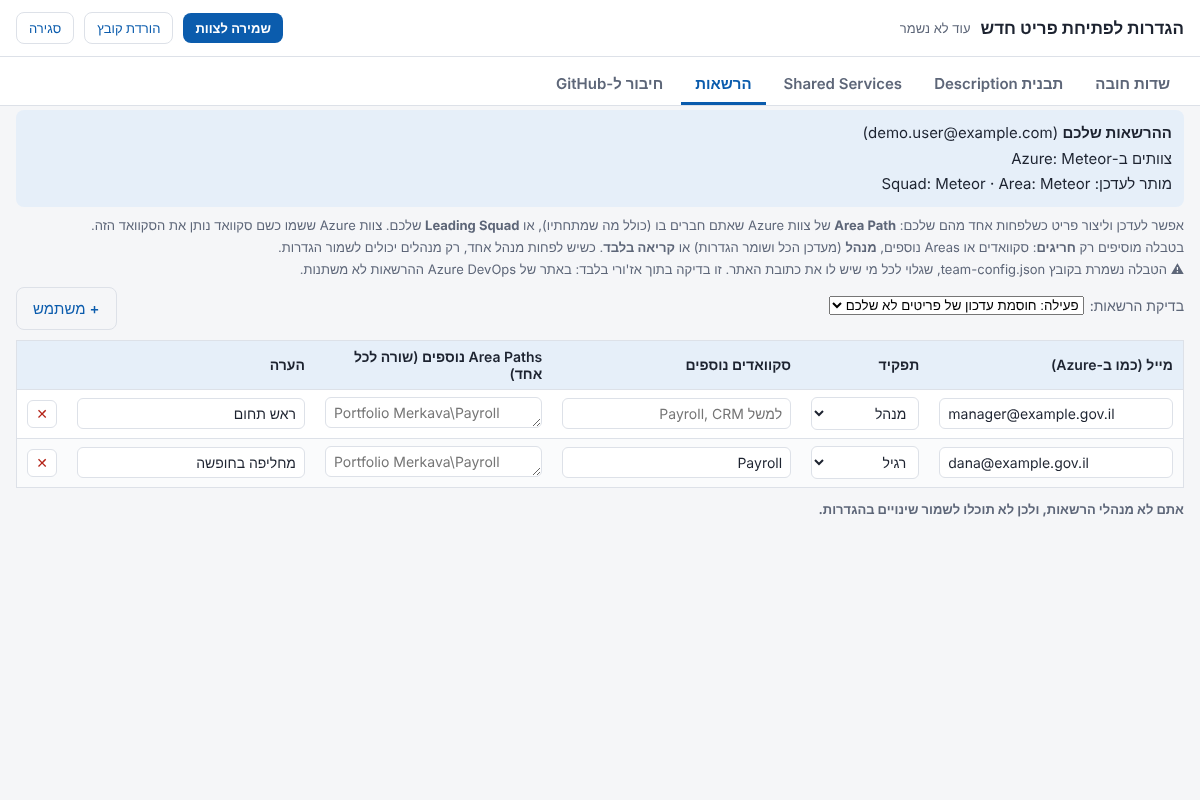
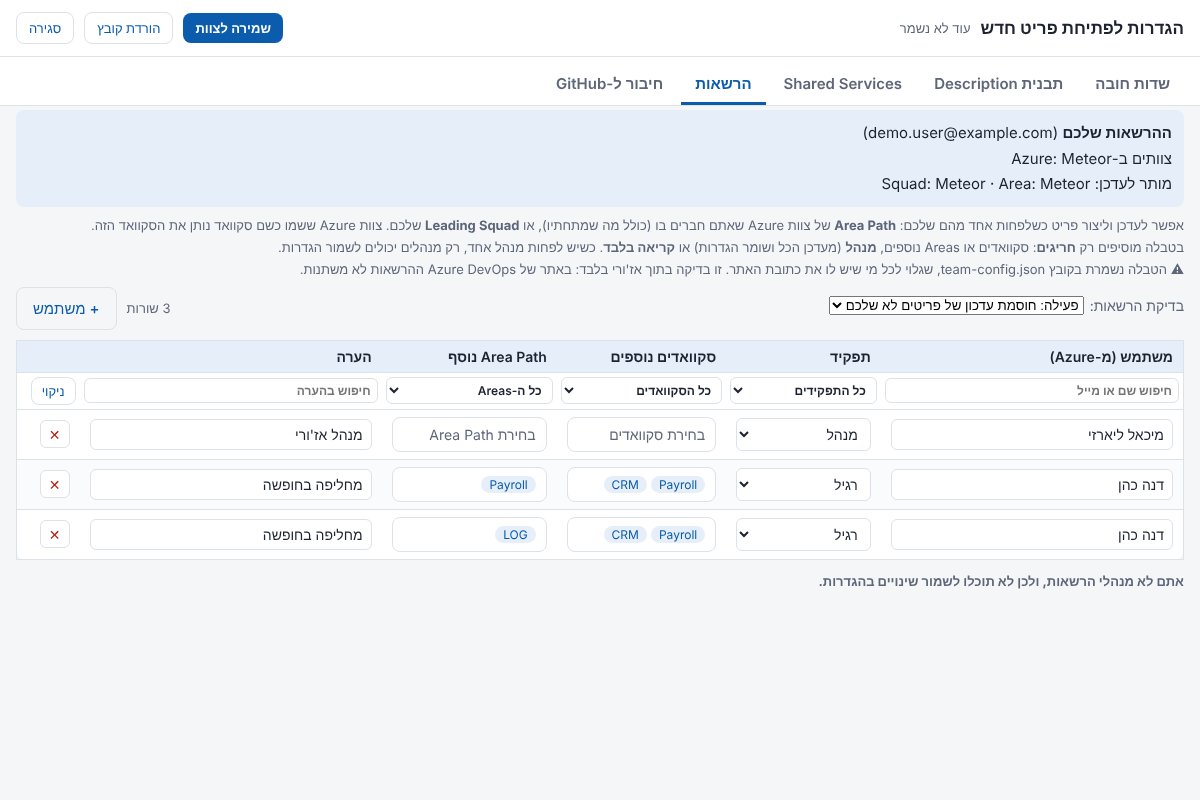
2.11.1: permissions table with Azure pickers (people, squads multi-select, area tree; one area per row) and column filters
Claude-Session: https://claude.ai/code/session_01RnH6ptxi2LhPczXXY3afhC

diff --git a/js/team-settings.js b/js/team-settings.js
@@ -263,38 +263,81 @@ const TeamUI = {
     ml.appendChild(mode);
     const add = document.createElement("button"); add.type = "button"; add.className = "btn ghost"; add.textContent = "+ משתמש";
     const sp = document.createElement("span"); sp.className = "sp";
-    modeRow.append(ml, sp, add);
-    const dl = document.createElement("datalist"); dl.id = "permSquads";
-    Meta.typeMeta("User Story").then(m => { const f = m.byRef.get(PERM_SQUAD); (f && f.allowed || []).forEach(v => dl.appendChild(new Option(v, v))); }).catch(() => {});
+    const cnt = document.createElement("span"); cnt.className = "muted";
+    modeRow.append(ml, sp, cnt, add);
+    // one Area Path per row: rows saved with several areas (older format) are split
+    const split = [];
+    p.users.forEach(u => { if (u.areas.length > 1) u.areas.forEach(a => split.push(Object.assign({}, u, {squads: u.squads.slice(), areas: [a]}))); else split.push(u); });
+    p.users.splice(0, p.users.length, ...split);
+    const squadOpts = async () => { const m = await Meta.typeMeta("User Story"); const f = m.byRef.get(PERM_SQUAD); return ((f && f.allowed) || []).map(v => ({value: v, label: v})); };
+    const lastPart = v => String(v).split("\\").pop();
+    const roleNames = {user: "רגיל", admin: "מנהל", readonly: "קריאה בלבד"};
     const tbl = document.createElement("table"); tbl.className = "ttable permtable";
-    tbl.innerHTML = "<thead><tr><th>מייל (כמו ב-Azure)</th><th>תפקיד</th><th>סקוואדים נוספים</th><th>Area Paths נוספים (שורה לכל אחד)</th><th>הערה</th><th></th></tr></thead>";
-    const tb = document.createElement("tbody"); tbl.appendChild(tb);
+    const thead = document.createElement("thead");
+    thead.innerHTML = "<tr><th>משתמש (מ-Azure)</th><th>תפקיד</th><th>סקוואדים נוספים</th><th>Area Path נוסף</th><th>הערה</th><th></th></tr>";
+    // filters under the headings
+    const flt = this.permFilter = this.permFilter || {who: "", role: "", squad: "", area: "", note: ""};
+    const fr = document.createElement("tr"); fr.className = "pfilter";
+    const fIn = (k, ph) => { const i = document.createElement("input"); i.type = "search"; i.placeholder = ph; i.value = flt[k]; i.setAttribute("aria-label", "סינון: " + ph); i.oninput = () => { flt[k] = i.value; applyFilter(); }; return i; };
+    const fSel = (k, label) => { const s2 = document.createElement("select"); s2.setAttribute("aria-label", "סינון לפי " + label); s2.dataset.f = k; s2.onchange = () => { flt[k] = s2.value; applyFilter(); }; return s2; };
+    const fRole = fSel("role", "תפקיד"), fSq = fSel("squad", "סקוואד"), fAr = fSel("area", "Area Path");
+    [fIn("who", "חיפוש שם או מייל"), fRole, fSq, fAr, fIn("note", "חיפוש בהערה")].forEach(x => { const th = document.createElement("th"); th.appendChild(x); fr.appendChild(th); });
+    const thx = document.createElement("th"); const clr = document.createElement("button"); clr.type = "button"; clr.className = "btn ghost mini"; clr.textContent = "ניקוי"; clr.title = "ניקוי הסינון";
+    clr.onclick = () => { Object.keys(flt).forEach(k => flt[k] = ""); fr.querySelectorAll("input").forEach(i => i.value = ""); fillFilters(); applyFilter(); };
+    thx.appendChild(clr); fr.appendChild(thx); thead.appendChild(fr);
+    const fillFilters = () => {
+      const opt = (sel, all, values, label) => { sel.innerHTML = ""; sel.add(new Option(all, "")); values.forEach(v => sel.add(new Option(label ? label(v) : v, v))); sel.value = values.includes(flt[sel.dataset.f]) ? flt[sel.dataset.f] : ""; flt[sel.dataset.f] = sel.value; };
+      opt(fRole, "כל התפקידים", Object.keys(roleNames), v => roleNames[v]);
+      opt(fSq, "כל הסקוואדים", [...new Set(p.users.flatMap(u => u.squads))].sort());
+      opt(fAr, "כל ה-Areas", [...new Set(p.users.flatMap(u => u.areas))].sort(), lastPart);
+    };
+    const tb = document.createElement("tbody"); tbl.append(thead, tb);
+    const match = u => (!flt.who || norm(u.email + " " + (u.name || "")).includes(norm(flt.who))) && (!flt.role || u.role === flt.role) &&
+      (!flt.squad || u.squads.includes(flt.squad)) && (!flt.area || u.areas.includes(flt.area)) && (!flt.note || norm(u.note || "").includes(norm(flt.note)));
+    const applyFilter = () => {
+      let n = 0;
+      tb.querySelectorAll("tr[data-i]").forEach(tr => { const ok = match(p.users[+tr.dataset.i]); tr.classList.toggle("hidden", !ok); if (ok) n++; });
+      const any = Object.values(flt).some(Boolean);
+      cnt.textContent = any ? "מוצגות " + n + " מתוך " + p.users.length + " שורות" : p.users.length ? p.users.length + " שורות" : "";
+    };
+    const changed = () => { this.markDirty(); fillFilters(); applyFilter(); };
     const draw = () => {
       tb.innerHTML = "";
-      if (!p.users.length) { tb.innerHTML = '<tr><td colspan="6" class="muted">אין חריגים. כולם מקבלים הרשאות לפי הצוותים שלהם ב-Azure.</td></tr>'; return; }
+      if (!p.users.length) { tb.innerHTML = '<tr><td colspan="6" class="muted">אין חריגים. כולם מקבלים הרשאות לפי הצוותים שלהם ב-Azure.</td></tr>'; fillFilters(); applyFilter(); return; }
       p.users.forEach((u, i) => {
-        const tr = document.createElement("tr");
-        const em = document.createElement("input"); em.type = "email"; em.dir = "ltr"; em.value = u.email; em.placeholder = "name@example.gov.il"; em.setAttribute("aria-label", "מייל");
-        em.oninput = () => { u.email = em.value.trim().toLowerCase(); this.markDirty(); };
-        const ro = document.createElement("select"); ro.setAttribute("aria-label", "תפקיד של " + (u.email || "המשתמש"));
-        [["user", "רגיל"], ["admin", "מנהל"], ["readonly", "קריאה בלבד"]].forEach(([v, l]) => ro.add(new Option(l, v))); ro.value = u.role;
-        ro.onchange = () => { u.role = ro.value; this.markDirty(); };
-        const sq = document.createElement("input"); sq.value = u.squads.join(", "); sq.setAttribute("list", "permSquads"); sq.placeholder = "למשל Payroll, CRM"; sq.setAttribute("aria-label", "סקוואדים נוספים של " + (u.email || "המשתמש"));
-        sq.oninput = () => { u.squads = sq.value.split(/[,;]/).map(x => x.trim()).filter(Boolean); this.markDirty(); };
-        const ar = document.createElement("textarea"); ar.rows = Math.max(1, u.areas.length); ar.dir = "ltr"; ar.value = u.areas.join("\n"); ar.placeholder = "Portfolio Merkava\\Payroll"; ar.setAttribute("aria-label", "Area Paths נוספים של " + (u.email || "המשתמש"));
-        ar.oninput = () => { u.areas = ar.value.split("\n").map(x => x.trim()).filter(Boolean); this.markDirty(); };
+        const tr = document.createElement("tr"); tr.dataset.i = i;
+        const who = makePersonPicker({label: "משתמש", azureRequired: true}, u.email ? (u.name ? u.name + " <" + u.email + ">" : u.email) : null, () => {
+          const v = who.get(); if (!v) return;
+          const m = String(v).match(/^(.*?)\s*<([^>]+)>\s*$/);
+          u.email = (m ? m[2] : String(v)).trim().toLowerCase(); u.name = m ? m[1].trim() : "";
+          changed();
+        });
+        const ro = document.createElement("select"); ro.setAttribute("aria-label", "תפקיד של " + (u.name || u.email || "המשתמש"));
+        Object.entries(roleNames).forEach(([v, l]) => ro.add(new Option(l, v))); ro.value = u.role;
+        ro.onchange = () => { u.role = ro.value; changed(); };
+        const sq = makeMultiPicker({label: "סקוואדים נוספים של " + (u.name || u.email || "המשתמש"), placeholder: "בחירת סקוואדים", value: u.squads, load: squadOpts,
+          onChange: v => { u.squads = v; changed(); }});
+        const ar = makeMultiPicker({label: "Area Path של " + (u.name || u.email || "המשתמש"), placeholder: "בחירת Area Path", value: u.areas, load: () => treeOptions("area"), short: lastPart,
+          onChange: v => {
+            // one area per row: more than one opens a row for each, with the same user, role, squads and note
+            u.areas = v.slice(0, 1);
+            const extra = v.slice(1).map(a => Object.assign({}, u, {squads: u.squads.slice(), areas: [a]}));
+            if (extra.length) { p.users.splice(i + 1, 0, ...extra); toast("נפתחו " + extra.length + " שורות נוספות, אחת לכל Area Path"); this.markDirty(); draw(); }
+            else changed();
+          }});
         const nt = document.createElement("input"); nt.value = u.note || ""; nt.placeholder = "למה"; nt.setAttribute("aria-label", "הערה");
-        nt.oninput = () => { u.note = nt.value; this.markDirty(); };
-        const del = mkIconBtn("✕", "מחיקת " + (u.email || "המשתמש"), false, () => { p.users.splice(i, 1); this.markDirty(); draw(); }, "del");
-        [em, ro, sq, ar, nt, del].forEach(x => { const td = document.createElement("td"); td.appendChild(x); tr.appendChild(td); });
+        nt.oninput = () => { u.note = nt.value; this.markDirty(); applyFilter(); };
+        const del = mkIconBtn("✕", "מחיקת " + (u.name || u.email || "המשתמש"), false, () => { p.users.splice(i, 1); this.markDirty(); draw(); }, "del");
+        [who.el, ro, sq.el, ar.el, nt, del].forEach(x => { const td = document.createElement("td"); td.appendChild(x); tr.appendChild(td); });
         tb.appendChild(tr);
       });
+      fillFilters(); applyFilter();
     };
-    add.onclick = () => { p.users.push({email: "", role: "user", squads: [], areas: [], note: ""}); this.markDirty(); draw(); const f = tb.querySelector("tr:last-child input"); if (f) f.focus(); };
+    add.onclick = () => { p.users.push({email: "", name: "", role: "user", squads: [], areas: [], note: ""}); Object.keys(flt).forEach(k => flt[k] = ""); fr.querySelectorAll("input").forEach(x => x.value = ""); this.markDirty(); draw(); const f = tb.querySelector("tr:last-child input"); if (f) f.focus(); };
     draw();
     const lock = document.createElement("p"); lock.className = "muted";
     if (!Perm.canSaveSettings()) lock.innerHTML = "<b>אתם לא מנהלי הרשאות, ולכן לא תוכלו לשמור שינויים בהגדרות.</b>";
-    body.append(mine, intro, modeRow, dl, tbl, lock);
+    body.append(mine, intro, modeRow, tbl, lock);
   },
 
   /* ---------- GitHub connection ---------- */

diff --git a/js/pickers.js b/js/pickers.js
@@ -142,3 +142,62 @@ function makeTreePicker(f, value, kind, onChange) {
   };
   return {el: wrap, get: () => selected, set: v => { selected = v || null; draw(); }};
 }
+
+/* ---------- Multi select with checkboxes and search (squads, area paths) ----------
+   load(): [{value, label, depth?, hint?}] */
+function makeMultiPicker(opts) {
+  const wrap = document.createElement("div"); wrap.className = "picker mpk";
+  const btn = document.createElement("button"); btn.type = "button"; btn.className = "pk-btn"; btn.setAttribute("aria-label", opts.label); btn.setAttribute("aria-haspopup", "listbox");
+  const panel = document.createElement("div"); panel.className = "pk-panel hidden";
+  wrap.append(btn, panel);
+  let selected = (opts.value || []).slice();
+  const draw = () => {
+    if (!selected.length) { btn.innerHTML = '<span class="pk-ph">' + escHtml(opts.placeholder || "בחירה") + "</span>"; return; }
+    const short = v => opts.short ? opts.short(v) : v;
+    btn.innerHTML = '<span class="mpk-chips">' + selected.map(v => '<span class="mpk-chip" title="' + escHtml(v) + '">' + escHtml(short(v)) + "</span>").join("") + "</span>";
+  };
+  draw();
+  let list = null;
+  const render = q => {
+    const box = panel.querySelector(".mpk-list"); box.innerHTML = "";
+    const qn = norm(q || "");
+    const rows = list.filter(o => !qn || norm(o.label + " " + o.value).includes(qn));
+    if (!rows.length) { box.innerHTML = '<div class="pk-empty">לא נמצא</div>'; return; }
+    rows.forEach(o => {
+      const l = document.createElement("label"); l.className = "mpk-opt"; l.style.paddingInlineStart = (8 + (qn ? 0 : (o.depth || 0) * 16)) + "px";
+      const cb = document.createElement("input"); cb.type = "checkbox"; cb.checked = selected.includes(o.value);
+      cb.onchange = () => { selected = cb.checked ? [...selected, o.value] : selected.filter(v => v !== o.value); };
+      l.append(cb, document.createTextNode(" " + o.label));
+      if (o.hint && qn) { const s = document.createElement("small"); s.dir = "ltr"; s.textContent = o.hint; l.appendChild(s); }
+      box.appendChild(l);
+    });
+  };
+  const close = apply => {
+    panel.classList.add("hidden");
+    if (apply) { draw(); opts.onChange(selected.slice()); }
+  };
+  btn.onclick = async () => {
+    if (!panel.classList.contains("hidden")) { close(true); return; }
+    Pickers.closeAll(panel); panel.classList.remove("hidden");
+    panel.innerHTML = '<input class="pk-search" type="search" placeholder="חיפוש" aria-label="חיפוש ב-' + escHtml(opts.label) + '"><div class="mpk-list"><div class="pk-empty">טוען...</div></div>' +
+      '<div class="mpk-bar"><button type="button" class="btn ghost mini mpk-clear">ניקוי</button><span class="sp"></span><button type="button" class="btn mini mpk-ok">אישור</button></div>';
+    panel.querySelector(".mpk-ok").onclick = () => { close(true); btn.focus(); };
+    panel.querySelector(".mpk-clear").onclick = () => { selected = []; render(panel.querySelector(".pk-search").value); };
+    try { list = await opts.load(); } catch (e) { panel.querySelector(".mpk-list").innerHTML = '<div class="pk-empty">לא ניתן לטעון: ' + escHtml(e.message || e) + "</div>"; return; }
+    const s = panel.querySelector(".pk-search");
+    s.oninput = () => render(s.value);
+    s.onkeydown = e => { if (e.key === "Escape") { e.stopPropagation(); close(true); btn.focus(); } };
+    render(""); s.focus();
+  };
+  // clicking outside applies the choice (like closing a dropdown)
+  document.addEventListener("mousedown", e => { if (!panel.classList.contains("hidden") && !wrap.contains(e.target)) close(true); });
+  return {el: wrap, get: () => selected.slice(), set: v => { selected = (v || []).slice(); draw(); }};
+}
+/* Area or iteration tree flattened for makeMultiPicker */
+async function treeOptions(kind) {
+  const root = (await Meta.classPaths()).trees[kind];
+  const out = [];
+  const walk = (n, d) => { out.push({value: n.path, label: n.name, depth: d, hint: n.path}); (n.children || []).forEach(c => walk(c, d + 1)); };
+  if (root) walk(root, 0);
+  return out;
+}

diff --git a/help.html b/help.html
@@ -162,7 +162,10 @@
     <figure><a href="help/img/app-19-locked.png" target="_blank"><img src="help/img/app-19-locked.png" alt="שורה של סקוואד אחר עם מנעול והודעה שאין הרשאה" loading="lazy"></a></figure>
     <p><b>הגדרות ← הגדרות לפתיחת פריט חדש ← הרשאות</b>: רואים את ההרשאות שלכם, ומנהלים טבלת <b>חריגים</b> לפי מייל:</p>
     <ul>
-      <li><b>סקוואדים או Area Paths נוספים</b>, למשל מי שמחליף מישהו בחופשה.</li>
+      <li><b>משתמש</b>: בוחרים מרשימת האנשים של Azure (אפשר לחפש לפי שם), כך שהמייל תמיד נכון.</li>
+      <li><b>סקוואדים נוספים</b>: בחירה מרובה מרשימת ה-Leading Squad של Azure, למשל למי שמחליף מישהו בחופשה.</li>
+      <li><b>Area Path נוסף</b>: בחירה מעץ ה-Areas של Azure. בכל שורה Area Path אחד. בוחרים כמה? נפתחת שורה לכל אחד, עם אותו משתמש, תפקיד, סקוואדים והערה.</li>
+      <li><b>סינון</b>: בשורה שמתחת לכותרות מסננים לפי שם או מייל, תפקיד, סקוואד, Area Path או הערה. "ניקוי" מחזיר הכל.</li>
       <li><b>מנהל</b>: מעדכן הכל. כשיש לפחות מנהל אחד בטבלה, רק מנהלים יכולים לשמור הגדרות לצוות.</li>
       <li><b>קריאה בלבד</b>: לא מעדכן כלום.</li>
       <li>אפשר לכבות את הבדיקה כולה (לא מומלץ).</li>

diff --git a/css/app.css b/css/app.css
@@ -498,3 +498,16 @@ tr.locked .rowedit { opacity: .7; }
 .permtable input,.permtable select,.permtable textarea{width:100%;box-sizing:border-box;padding:6px 8px;border:1px solid var(--line);border-radius:6px;background:var(--panel);font:inherit;color:inherit}
 .permtable td:first-child { min-width: 200px; }
 .err-inline { color: var(--bad); }
+.mpk .pk-panel{min-width:260px}
+.mpk-list{max-height:240px;overflow:auto}
+.mpk-opt{display:flex;align-items:center;gap:6px;padding:5px 8px;border-radius:6px;cursor:pointer;font-size:14px;color:var(--ink);margin:0}
+.mpk-opt:hover{background:var(--accent-soft)}
+.mpk-opt small{color:var(--muted);font-size:11px;margin-inline-start:auto}
+.mpk-bar{display:flex;gap:6px;align-items:center;border-top:1px solid var(--line);padding-top:6px;margin-top:4px;position:sticky;bottom:0;background:var(--panel)}
+.mpk-bar .sp{flex:1}
+.mpk-chips{display:flex;flex-wrap:wrap;gap:4px}
+.mpk-chip{background:var(--accent-soft);color:var(--accent);border-radius:999px;padding:1px 8px;font-size:12px;white-space:nowrap}
+.btn.mini{padding:5px 10px;font-size:13px}
+.permtable .pfilter th{background:var(--panel);padding:4px}
+.permtable .pfilter input,.permtable .pfilter select{font-size:12px;padding:4px 6px}
+.permtable .picker{position:relative}

diff --git a/js/perm.js b/js/perm.js
@@ -25,7 +25,7 @@ function normalizePermissions(p) {
       const email = String((u && u.email) || "").trim().toLowerCase();
       if (!email) return;
       const role = ["admin", "readonly"].includes(u.role) ? u.role : "user";
-      out.users.push({email, role, squads: list(u.squads), areas: list(u.areas), note: String(u.note || "").trim()});
+      out.users.push({email, name: String(u.name || "").trim(), role, squads: list(u.squads), areas: list(u.areas), note: String(u.note || "").trim()});
     });
   }
   return out;

diff --git a/js/core.js b/js/core.js
@@ -2,7 +2,7 @@
 
 /* ============================ CONFIG ============================ */
 const CONFIG = {
-  VERSION: "2.11",
+  VERSION: "2.11.1",
   ORG: "GOI-Finance",
   TENANT: "GOIFinance.onmicrosoft.com",
   // Fill in after registering the app in Microsoft Entra ID (App registrations).

diff --git a/tests/test_perm.py b/tests/test_perm.py
@@ -90,11 +90,36 @@ with sync_playwright() as p:
     txt = pg.inner_text("#teamBody")
     check("settings tab shows my teams and access", "Meteor" in txt and "ההרשאות שלכם" in txt and "גלוי לכל" in txt, txt[:300])
     pg.click("#teamBody button:has-text('+ משתמש')")
-    pg.locator("#teamBody .permtable tbody tr input[type=email]").last.fill("Someone@Gov.example")
-    pg.locator("#teamBody .permtable tbody tr select").last.select_option("admin")
-    pg.locator("#teamBody .permtable tbody tr textarea").last.fill("Portfolio Merkava\\Payroll\nPortfolio Merkava\\HR")
+    row = pg.locator("#teamBody .permtable tbody tr").last
+    row.locator(".pk-input").click(); row.locator(".pk-input").fill("דנה"); pg.wait_for_timeout(300)
+    row.locator(".pk-opt:has-text('דנה כהן')").first.dispatch_event("mousedown"); pg.wait_for_timeout(100)
+    row.locator("select").select_option("admin")
+    row.locator(".mpk").nth(0).locator(".pk-btn").click(); pg.wait_for_timeout(300)
+    for sq in ["Payroll", "CRM"]: row.locator(".mpk").nth(0).locator(".mpk-opt", has_text=sq).first.locator("input").check()
+    row.locator(".mpk").nth(0).locator(".mpk-ok").click(); pg.wait_for_timeout(100)
+    check("squads: multi select from Azure list", row.locator(".mpk").nth(0).locator(".mpk-chip").count() == 2)
+    row.locator(".mpk").nth(1).locator(".pk-btn").click(); pg.wait_for_timeout(300)
+    for ar in ["Payroll", "LOG"]: row.locator(".mpk").nth(1).locator(".mpk-opt", has_text=ar).first.locator("input").check()
+    row.locator(".mpk").nth(1).locator(".mpk-ok").click(); pg.wait_for_timeout(200)
     d = pg.evaluate("TeamUI.prepared().permissions")
-    check("table saves normalized rows", d["users"][0] == {"email": "someone@gov.example", "role": "admin", "squads": [], "areas": ["Portfolio Merkava\\Payroll", "Portfolio Merkava\\HR"], "note": ""} and d["mode"] == "block", d)
+    want = lambda area: {"email": "dana@example.com", "name": "דנה כהן", "role": "admin", "squads": ["Payroll", "CRM"], "areas": [area], "note": ""}
+    check("two areas open two rows with the same user, role and squads", d["users"] == [want("Portfolio Merkava\\Payroll"), want("Portfolio Merkava\\MK2\\LOG")] or d["users"] == [want("Portfolio Merkava\\MK2\\LOG"), want("Portfolio Merkava\\Payroll")], d)
+    check("table shows two rows", pg.locator("#teamBody .permtable tbody tr[data-i]").count() == 2)
+    pg.locator("#teamBody .pfilter select[aria-label='סינון לפי Area Path']").select_option("Portfolio Merkava\\MK2\\LOG")
+    vis = lambda: pg.locator("#teamBody .permtable tbody tr[data-i]:not(.hidden)").count()
+    check("filter by Area Path", vis() == 1, vis())
+    pg.locator("#teamBody .pfilter select[aria-label='סינון לפי תפקיד']").select_option("readonly")
+    check("filter by role", vis() == 0, vis())
+    pg.click("#teamBody .pfilter button:has-text('ניקוי')")
+    pg.locator("#teamBody .pfilter select[aria-label='סינון לפי סקוואד']").select_option("CRM")
+    check("filter by squad", vis() == 2, vis())
+    pg.locator("#teamBody .pfilter input[aria-label='סינון: חיפוש שם או מייל']").fill("יוסי")
+    check("filter by name", vis() == 0 and "0 מתוך 2" in pg.inner_text("#teamBody"), vis())
+    pg.click("#teamBody .pfilter button:has-text('ניקוי')")
+    check("mode stays block", d["mode"] == "block")
+    pg.evaluate("TeamUI.draft.permissions = {users: [{email: 'a@x.com', areas: ['P\\\\A', 'P\\\\B'], squads: ['CRM']}]}; TeamUI.render(); 0"); pg.wait_for_timeout(300)
+    d = pg.evaluate("TeamUI.prepared().permissions")
+    check("older rows with several areas are split, one area per row", [u["areas"] for u in d["users"]] == [["P\\A"], ["P\\B"]] and all(u["squads"] == ["CRM"] for u in d["users"]), d)
     pg.evaluate("TeamUI.close(true); 0")
     check("no js errors (demo)", not errs, errs)
     # ---------- real Azure (mocked): teams and areas come from Azure ----------

diff --git a/CHANGELOG.md b/CHANGELOG.md
@@ -4,7 +4,8 @@
 
 | גרסה | תאריך | עיקרי השינויים | גרסה שמורה |
 |---|---|---|---|
-| **2.11** | 2026-10-15 | הרשאות עדכון: אפשר לעדכן וליצור רק פריטים של הסקוואד שלכם (Area Path של צוות ה-Azure שלכם או Leading Squad שלכם). פריטים אחרים מוצגים עם 🔒. לשונית "הרשאות" בהגדרות עם טבלת חריגים (סקוואדים נוספים, מנהל, קריאה בלבד); כשיש מנהל, רק מנהלים שומרים הגדרות. הטוקנים (Azure ו-GitHub) נשמרים רק עד סגירת הלשונית; טוקנים שנשמרו במחשב נמחקים | |
+| **2.11.1** | 2026-10-15 | טבלת ההרשאות: בחירת משתמש מרשימת האנשים של Azure, בחירה מרובה של סקוואדים, בחירת Area Path מהעץ (כמה Areas פותחים שורה לכל אחד עם אותם נתונים), סינון בכותרות לפי שם, תפקיד, סקוואד, Area Path והערה | |
+| 2.11 | 2026-10-15 | הרשאות עדכון: אפשר לעדכן וליצור רק פריטים של הסקוואד שלכם (Area Path של צוות ה-Azure שלכם או Leading Squad שלכם). פריטים אחרים מוצגים עם 🔒. לשונית "הרשאות" בהגדרות עם טבלת חריגים (סקוואדים נוספים, מנהל, קריאה בלבד); כשיש מנהל, רק מנהלים שומרים הגדרות. הטוקנים (Azure ו-GitHub) נשמרים רק עד סגירת הלשונית; טוקנים שנשמרו במחשב נמחקים | |
 | 2.10.5 | 2026-10-13 | שליחה במייל עם טבלה מעוצבת (לא טקסט): תפריט Outlook במחשב (קובץ מייל שנפתח כטיוטה עם הטבלה והתמונות), Gmail (מייל חדש עם הנושא, הטבלה מועתקת ל-Ctrl+V) ותוכנת דואר אחרת | |
 | 2.10.4 | 2026-10-13 | כפתור "שליחה במייל" מעל כל טבלת תוצאות: מייל חדש בתוכנת הדואר שלכם, נושא אוטומטי לפי הטבלה, שתי שורות ריקות ואחריהן הטבלה. הטבלה המעוצבת מועתקת גם היא להדבקה | |
 | 2.10.3 | 2026-10-12 | הקלדה בדיבור בכל שדה כתיבה: 🎤 קטן בתוך השדה שעומדים עליו (טפסים, Description, תגובות, עריכת פירוק, מסך היצירה, הגדרות). הכנסה במקום הסמן. בלי מיקרופון בשדות טוקן | |
